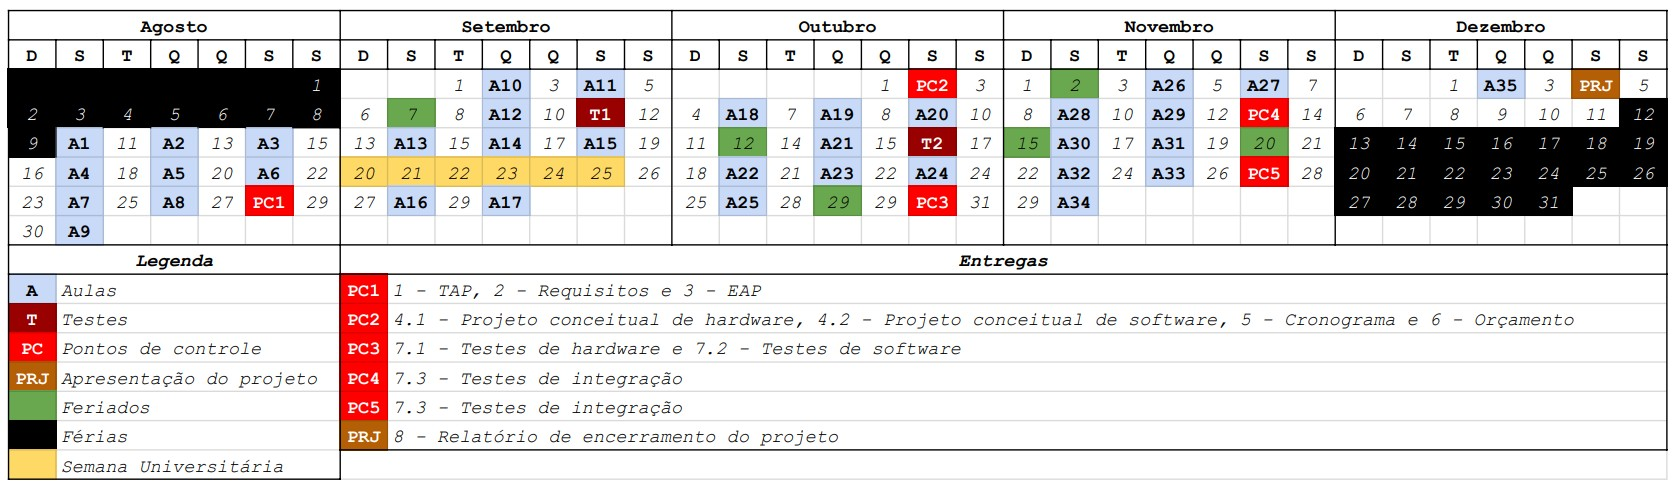
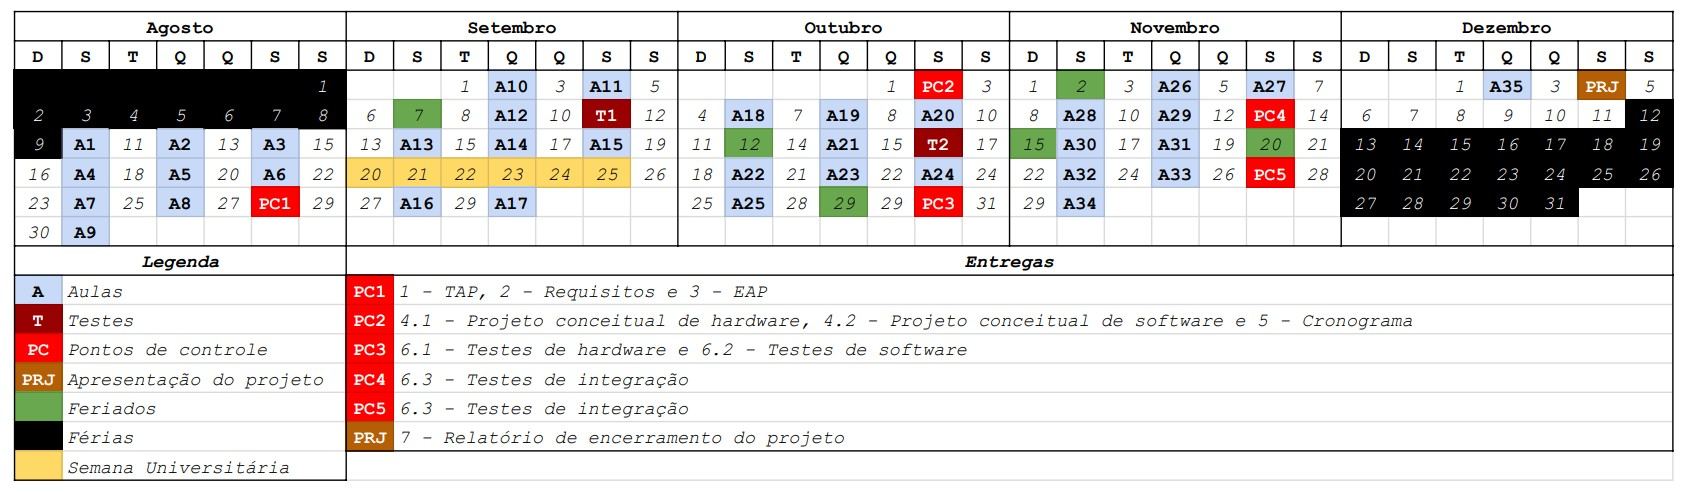
Update plano de ensino

Changed region(s): [[0.0, 0.0, 1.0, 0.9856]]

diff --git a/README.md b/README.md
@@ -42,14 +42,15 @@ Os pontos de controle serão prévias do projeto final. Cada dia de atraso na ap
 	- 4.1 - Projeto conceitual de hardware
 	- 4.2 - Projeto conceitual de software
 	- 5 - Cronograma
-	- 6 - Orçamento
 - PC3: testes de componentes e algoritmos
-	- 7.1 - Testes de hardware
-	- 7.2 - Testes de software
+	- 6.1 - Testes de hardware
+	- 6.2 - Testes de software
 - PC4: integração de componentes
-	- 7.3 - Testes de integração
+	- 6.3 - Testes de integração
 - PC5: integração de componentes
-	- 7.3 - Testes de integração
+	- 6.3 - Testes de integração
+- Entrega final
+	- 7 - Relatório de encerramento do projeto
 
 Fazendo uma analogia com o projeto com a montagem de um quebra-cabeças:
 
@@ -59,6 +60,22 @@ Fazendo uma analogia com o projeto com a montagem de um quebra-cabeças:
 - PC4 e PC5: montagem do quebra-cabeças
 
 Todos os relatórios dos pontos de controle serão entregues via Moodle. Em caso de cópias (integrais ou parciais), os relatórios ficarão com nota ZERO.
+
+### Orientações para a escolha do tema do projeto
+
+A escolha do tema do projeto é responsabilidade dos alunos. Entretanto, a proposta deverá observar as seguintes orientações:
+
+1. **O projeto deverá resultar em um protótipo funcional.** Não é permitida a representação simbólica de suas saídas ou componentes. Por exemplo, representar a abertura de uma porta com um LED ou utilizar palitos de picolé para representar catracas físicas.
+
+2. **A proposta deve partir de um problema, e não de uma tecnologia.** Evitem escolher primeiro uma tecnologia ou componente e só depois procurar uma aplicação para ele. Por exemplo, é possível usar um Raspberry Pi para construir um cubo de LEDs, mas qual problema ele resolve?
+
+3. **O projeto deverá justificar o uso do Raspberry Pi.** A utilização do Raspberry Pi deve ser necessária. Não serão consideradas adequadas propostas que possam ser implementadas utilizando apenas um microcontrolador.
+
+4. **O escopo deverá ser compatível com a duração do semestre.** É preferível desenvolver uma solução menor, porém completa e funcional, do que propor um sistema abrangente que não possa ser concluído adequadamente.
+
+5. **O custo do projeto deverá ser considerado desde a definição da proposta.** Caso ele tenha um custo elevado, recomenda-se modificar a proposta, por meio da substituição de componentes, da redução do escopo ou da alteração da solução técnica.
+
+A proposta deve, portanto, partir de um **problema concreto**, definir uma **solução com escopo bem delimitado** e, somente então, selecionar as tecnologias e componentes necessários para sua implementação.
 
 ## Ementa
 
